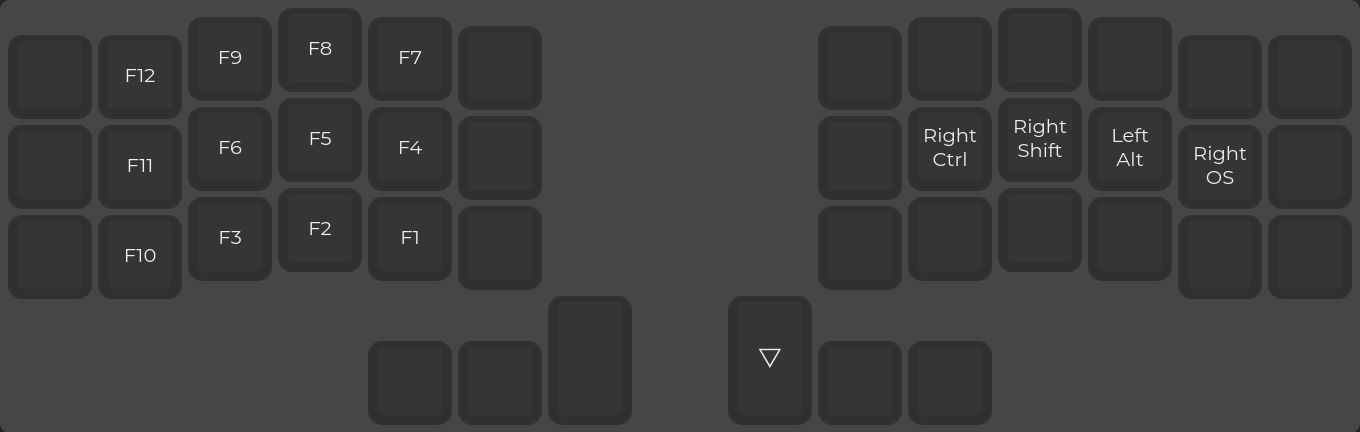
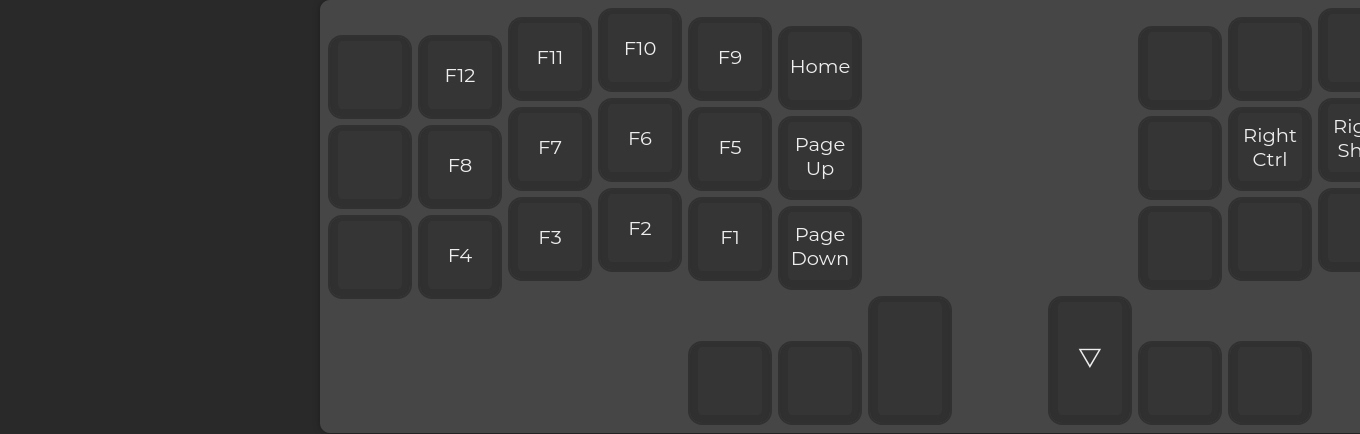
Added gaming layout

diff --git a/keyboards/crkbd/rev4_1/standard/keymaps/ntw1vnl/keymap.c b/keyboards/crkbd/rev4_1/standard/keymaps/ntw1vnl/keymap.c
@@ -22,6 +22,7 @@ along with this program.  If not, see <http://www.gnu.org/licenses/>.
 enum Layer {
     LAYER_BASE_QWERTY,
     LAYER_BASE_COLEMAK,
+    LAYER_BASE_GAMING,
     LAYER_NAV,
     LAYER_NUM,
     LAYER_SYM,
@@ -40,7 +41,8 @@ enum Layer {
 // #define RT_THMB LT(LAYER_BASE_QWERTY, KC_DEL) // Right Tertiary Thumb
 
 enum Combo {
-    COMBO_CTL_LAYER,
+    COMBO_CTL_LAYER_1,
+    COMBO_CTL_LAYER_2,
     COMBO_GUI_THMB,
     COMBO_JK_ESC_QWERTY,
     COMBO_JK_ESC_COLEMAK,
@@ -48,17 +50,21 @@ enum Combo {
 };
 
 //clang-format off
-const uint16_t PROGMEM control_layer_combo[]                = {KC_ESC, KC_DEL, COMBO_END};
+//Switch to control layer if in typing layer (QWERTY or COLEMAK)
+const uint16_t PROGMEM control_layer_combo_1[]                = {KC_ESC, KC_DEL, COMBO_END};
+//Switch to control layer if in gaming
+const uint16_t PROGMEM control_layer_combo_2[]                = {KC_END, KC_DEL, COMBO_END};
 const uint16_t PROGMEM gui_thumb_combo[]                    = {LP_THMB, RP_THMB, COMBO_END};
 const uint16_t PROGMEM jk_esc_combo_qwerty[]                = {RCTL_T(KC_J), RSFT_T(KC_K), COMBO_END};
 const uint16_t PROGMEM jk_esc_combo_colemak[]               = {RCTL_T(KC_N), RSFT_T(KC_E), COMBO_END};
 const uint16_t PROGMEM both_shifts_caps_word_combo_qwerty[] = {LSFT_T(KC_D), RSFT_T(KC_K), COMBO_END};
 
 combo_t key_combos[] = {
-    [COMBO_CTL_LAYER] = COMBO(control_layer_combo, MO(LAYER_CONTROL)),
+    [COMBO_CTL_LAYER_1] = COMBO(control_layer_combo_1, OSL(LAYER_CONTROL)),
+    [COMBO_CTL_LAYER_2] = COMBO(control_layer_combo_2, OSL(LAYER_CONTROL)),
     [COMBO_GUI_THMB] = COMBO(gui_thumb_combo, KC_LGUI),
-    [COMBO_JK_ESC_QWERTY] = COMBO(jk_esc_combo_qwerty, KC_ESC),
-    [COMBO_JK_ESC_COLEMAK] = COMBO(jk_esc_combo_colemak, KC_ESC),
+    /* [COMBO_JK_ESC_QWERTY] = COMBO(jk_esc_combo_qwerty, KC_ESC), */
+    /* [COMBO_JK_ESC_COLEMAK] = COMBO(jk_esc_combo_colemak, KC_ESC), */
     [COMBO_CAPS_WORD_QWERTY] = COMBO_ACTION(both_shifts_caps_word_combo_qwerty)
 };
 //clang-format on
@@ -78,6 +84,7 @@ void process_combo_event(uint16_t combo_index, bool pressed) {
 // clang-format off
 #define LAYER_BASE_QWERTY_COLOR     HSV_OFF
 #define LAYER_BASE_COLEMAK_COLOR    HSV_OFF
+#define LAYER_BASE_GAMING_COLOR     HSV_OFF
 #define LAYER_NAV_COLOR             HSV_AZURE
 #define LAYER_NUM_COLOR             HSV_RED
 #define LAYER_SYM_COLOR             HSV_GREEN
@@ -92,6 +99,8 @@ hsv_t get_layer_color(uint8_t layer) {
             return (hsv_t){LAYER_BASE_QWERTY_COLOR};
         case LAYER_BASE_COLEMAK:
             return (hsv_t){LAYER_BASE_COLEMAK_COLOR};
+        case LAYER_BASE_GAMING:
+            return (hsv_t){LAYER_BASE_GAMING_COLOR};
         case LAYER_NAV:
             return (hsv_t){LAYER_NAV_COLOR};
         case LAYER_NUM:
@@ -112,7 +121,8 @@ void colorize_used_keys(rgb_t color_rgb, uint8_t layer, uint8_t led_min, uint8_t
     for (uint8_t row = 0; row < MATRIX_ROWS; ++row) {
         for (uint8_t col = 0; col < MATRIX_COLS; ++col) {
             uint8_t index = g_led_config.matrix_co[row][col];
-            if (index >= led_min && index < led_max && index != NO_LED && keymap_key_to_keycode(layer, (keypos_t){col, row}) > KC_TRNS) {
+            if (index >= led_min && index < led_max && index != NO_LED
+                && keymap_key_to_keycode(layer, (keypos_t){col, row}) > KC_TRNS) {
                 rgb_matrix_set_color(index, color_rgb.r, color_rgb.g, color_rgb.b);
             }
         }

diff --git a/keyboards/crkbd/rev4_1/standard/keymaps/ntw1vnl/README.md b/keyboards/crkbd/rev4_1/standard/keymaps/ntw1vnl/README.md
@@ -1,8 +1,16 @@
 # Layers
 
-## Base
+## Base QWERTY
 
-![Base layout](base.png)
+![Base QWERTY layout](base_qwerty.png)
+
+## Base COLEMAK_DH
+
+![Base COLEMAK_DH layout](base_colemak_dh.png)
+
+## Base gaming
+
+![Base gaming layout](base_gaming.png)
 
 ## Navigation
 
